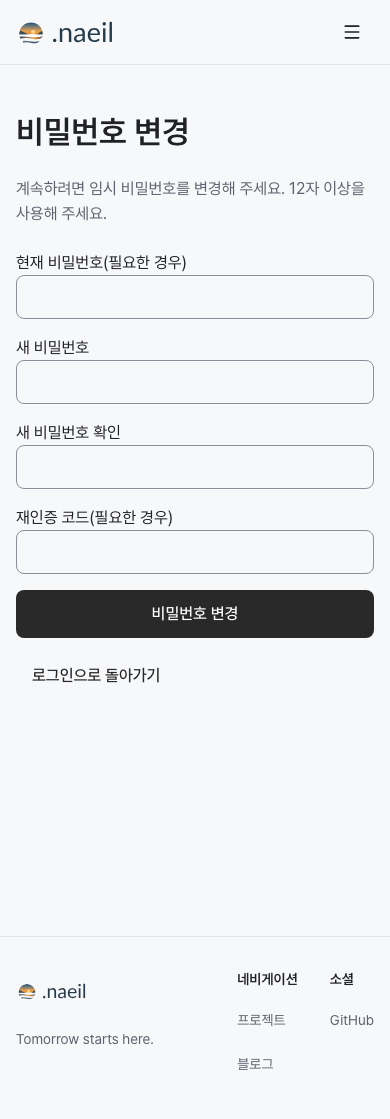
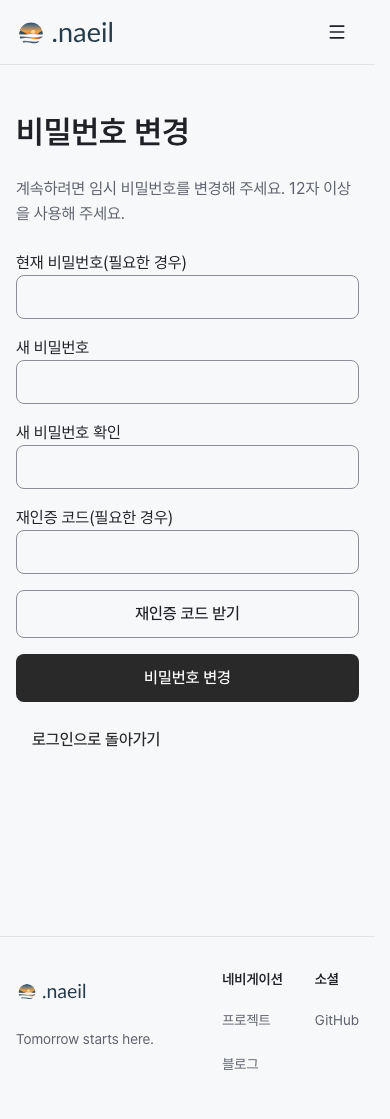
fix(site): harden credential recovery and accessible feedback

diff --git a/src/app/[locale]/login/credential-forms.tsx b/src/app/[locale]/login/credential-forms.tsx
@@ -1,15 +1,16 @@
 "use client";
-import { useRef, useState } from "react";
+import { useId, useRef, useState } from "react";
 import { useLocale, useTranslations } from "next-intl";
 import { Button } from "@/components/ui/button";
 import { Input } from "@/components/ui/input";
-import { clearLocalSession } from "./actions";
 import {
   passwordLogin,
   emailLogin,
   beginPasswordChange,
   submitPasswordChange,
   resumePasswordChange,
+  leavePasswordChange,
+  requestPasswordCode,
 } from "./credential-actions";
 
 export function CredentialForms({
@@ -22,11 +23,13 @@ export function CredentialForms({
   const t = useTranslations("auth"),
     locale = useLocale(),
     form = useRef<HTMLFormElement>(null),
-    lock = useRef(false);
+    lock = useRef(false),
+    statusId = useId();
   const [busy, setBusy] = useState(false),
-    [status, setStatus] = useState("");
+    [status, setStatus] = useState(""),
+    [email, setEmail] = useState("");
   async function run(
-    kind: "password" | "email" | "change" | "resume",
+    kind: "password" | "email" | "change" | "resume" | "code",
     data: FormData,
   ) {
     if (lock.current) return;
@@ -39,16 +42,17 @@ export function CredentialForms({
         const start = await beginPasswordChange();
         result =
           start.status === "ready" ? await submitPasswordChange(data) : start;
-      } else if (kind === "resume") result = await resumePasswordChange();
+      } else if (kind === "code") result = await requestPasswordCode();
+      else if (kind === "resume") result = await resumePasswordChange();
       else
         result =
           kind === "email" ? await emailLogin(data) : await passwordLogin(data);
-      form.current?.reset();
+      clearSensitive();
       if ("location" in result && typeof result.location === "string")
         window.location.assign(result.location);
       else setStatus(result.status === "ready" ? "" : result.status);
     } catch {
-      form.current?.reset();
+      clearSensitive();
       setStatus(change ? "retry" : "error");
     } finally {
       lock.current = false;
@@ -57,23 +61,37 @@ export function CredentialForms({
   }
   const messages: Record<string, string> = {
     error: "credentialError",
+    invalidEmail: "invalidEmail",
+    codeSent: "codeSent",
     expired: "tempExpired",
     reissued: "tempReissued",
     retry: "completionRetry",
     sent: "emailSent",
     rejected: "passwordRejected",
   };
+  const blocked = change && (status === "retry" || status === "reissued");
+  const invalid = ["error", "invalidEmail", "rejected"].includes(status);
+  function clearSensitive() {
+    form.current
+      ?.querySelectorAll<HTMLInputElement>(
+        'input[type="password"], input[name="nonce"]',
+      )
+      .forEach((input) => {
+        input.value = "";
+      });
+  }
   return (
     <div className="space-y-4">
-      {status && (
-        <p
-          role="status"
-          aria-live="polite"
-          className="rounded-md bg-surface-subtle p-4 text-sm"
-        >
-          {t(messages[status] || "credentialError")}
-        </p>
-      )}
+      <p
+        id={statusId}
+        role="status"
+        aria-live="polite"
+        className={
+          status ? "rounded-md bg-surface-subtle p-4 text-sm" : "sr-only"
+        }
+      >
+        {status ? t(messages[status] || "credentialError") : ""}
+      </p>
       <form
         ref={form}
         action={(data) => run(change ? "change" : "password", data)}
@@ -86,11 +104,15 @@ export function CredentialForms({
             <span>{t("emailId")}</span>
             <Input
               name="email"
+              value={email}
+              onChange={(event) => setEmail(event.target.value)}
               type="email"
               autoComplete="username"
               required
               maxLength={254}
-              disabled={busy}
+              aria-describedby={statusId}
+              aria-invalid={invalid || undefined}
+              disabled={busy || blocked}
             />
           </label>
         )}
@@ -101,7 +123,9 @@ export function CredentialForms({
               name="current_password"
               type="password"
               autoComplete="current-password"
-              disabled={busy}
+              aria-describedby={statusId}
+              aria-invalid={invalid || undefined}
+              disabled={busy || blocked}
               maxLength={1024}
             />
           </label>
@@ -115,7 +139,9 @@ export function CredentialForms({
             required
             minLength={change ? 12 : 1}
             maxLength={change ? 72 : 1024}
-            disabled={busy || status === "retry" || status === "reissued"}
+            disabled={busy || blocked}
+            aria-describedby={statusId}
+            aria-invalid={invalid || undefined}
           />
         </label>
         {change && (
@@ -129,7 +155,9 @@ export function CredentialForms({
                 required
                 minLength={12}
                 maxLength={72}
-                disabled={busy}
+                aria-describedby={statusId}
+                aria-invalid={invalid || undefined}
+                disabled={busy || blocked}
               />
             </label>
             <label className="block space-y-2">
@@ -138,16 +166,28 @@ export function CredentialForms({
                 name="nonce"
                 autoComplete="one-time-code"
                 maxLength={128}
-                disabled={busy}
+                aria-describedby={statusId}
+                aria-invalid={invalid || undefined}
+                disabled={busy || blocked}
               />
             </label>
+            <Button
+              type="button"
+              variant="outline"
+              className="w-full"
+              size="lg"
+              disabled={busy || blocked}
+              onClick={() => void run("code", new FormData())}
+            >
+              {t("requestCode")}
+            </Button>
           </>
         )}
         <Button
           type="submit"
           size="lg"
           className="w-full whitespace-normal"
-          disabled={busy || status === "retry" || status === "reissued"}
+          disabled={busy || blocked}
           aria-busy={busy}
         >
           {t(change ? "changePassword" : "passwordSignIn")}
@@ -160,6 +200,12 @@ export function CredentialForms({
             className="w-full whitespace-normal"
             disabled={busy}
             onClick={() => {
+              if (
+                !form.current
+                  ?.querySelector<HTMLInputElement>('input[name="email"]')
+                  ?.reportValidity()
+              )
+                return;
               const data = new FormData();
               data.set(
                 "email",
@@ -186,9 +232,20 @@ export function CredentialForms({
       {change && (
         <Button
           variant="link"
+          disabled={busy}
           onClick={async () => {
-            await clearLocalSession();
-            window.location.assign(`/${locale}/login`);
+            if (lock.current) return;
+            lock.current = true;
+            setBusy(true);
+            clearSensitive();
+            try {
+              await leavePasswordChange();
+              window.location.assign(`/${locale}/login`);
+            } catch {
+              lock.current = false;
+              setBusy(false);
+              setStatus("error");
+            }
           }}
         >
           {t("backToLogin")}

diff --git a/src/lib/auth/__tests__/password-pages.test.ts b/src/lib/auth/__tests__/password-pages.test.ts
@@ -1,0 +1,64 @@
+import { beforeEach, expect, it, vi } from "vitest";
+import { createElement } from "react";
+import { renderToStaticMarkup } from "react-dom/server";
+const state = vi.hoisted(() => ({
+  user: null as null | { id: string; app_metadata: Record<string, unknown> },
+}));
+vi.mock("@/lib/supabase/server", () => ({
+  createClient: async () => ({
+    auth: {
+      getUser: async () => ({ data: { user: state.user }, error: null }),
+    },
+  }),
+}));
+vi.mock("next-intl/server", () => ({
+  getTranslations: async () => (key: string) => key,
+}));
+vi.mock("next/navigation", () => ({
+  redirect: (path: string) => {
+    throw new Error(`redirect:${path}`);
+  },
+}));
+vi.mock("@/app/[locale]/login/credential-forms", () => ({
+  CredentialForms: () => createElement("form", { "data-change": "true" }),
+}));
+vi.mock("@/app/[locale]/login/oauth-buttons", () => ({
+  OAuthButtons: () => null,
+}));
+vi.mock("@/components/logo", () => ({ Logo: () => null }));
+import LoginPage from "@/app/[locale]/login/page";
+import PasswordChangePage from "@/app/[locale]/login/change-password/page";
+beforeEach(() => {
+  state.user = {
+    id: "user",
+    app_metadata: {
+      console_temp: {
+        must_change: true,
+        locked: false,
+        generation: 1,
+        issued_at: new Date().toISOString(),
+        operation_id: "a2000000-0000-0000-0000-000000000001",
+      },
+    },
+  };
+});
+it("login page blocks next even without proxy execution", async () => {
+  await expect(
+    LoginPage({
+      params: Promise.resolve({ locale: "ko" }),
+      searchParams: Promise.resolve({ next: "https://jev.naeil.dev/" }),
+    }),
+  ).rejects.toThrow("redirect:/ko/login/change-password");
+});
+it.each([false, true])(
+  "change page renders an input form only before expiry (%s)",
+  async (expired) => {
+    if (expired)
+      (
+        state.user!.app_metadata.console_temp as Record<string, unknown>
+      ).issued_at = new Date(Date.now() - 8 * 86400_000).toISOString();
+    const html = renderToStaticMarkup(await PasswordChangePage());
+    expect(html.includes('data-change="true"')).toBe(!expired);
+    expect(html.includes("tempExpired")).toBe(expired);
+  },
+);

diff --git a/src/proxy.ts b/src/proxy.ts
@@ -1,6 +1,7 @@
 import { type NextRequest, NextResponse } from "next/server";
 import createIntlMiddleware from "next-intl/middleware";
 import { requiresPasswordChange, passwordChangePath } from "./lib/auth/password-policy";
+import { authLocale } from "./lib/auth/return-location";
 import { routing } from "./i18n/routing";
 import { updateSession } from "./lib/supabase/middleware";
 import { isProtectedReportRoute } from "./lib/auth/routes";
@@ -39,7 +40,7 @@ export default async function proxy(request: NextRequest) {
   // 2. Capture URL info BEFORE intl middleware (which may mutate request.nextUrl)
   const { pathname } = request.nextUrl;
 
-  const language = pathname.match(/^\/(en|ko|ja)(?:\/|$)/)?.[1] || "en";
+  const language = pathname.match(/^\/(en|ko|ja)(?:\/|$)/)?.[1] || authLocale(request.cookies.get("NEXT_LOCALE")?.value);
   if (requiresPasswordChange(user) && !/^\/(?:(?:en|ko|ja)\/)?login\/change-password$/.test(pathname)) {
     const response = NextResponse.redirect(new URL(passwordChangePath(language), request.url), 303);
     supabaseResponse.cookies.getAll().forEach(cookie => response.cookies.set(cookie));

diff --git a/src/lib/auth/__tests__/password-form.test.ts b/src/lib/auth/__tests__/password-form.test.ts
@@ -1,0 +1,30 @@
+import { expect, it, vi } from "vitest";
+import { createElement } from "react";
+import { renderToStaticMarkup } from "react-dom/server";
+vi.mock("next-intl", () => ({
+  useLocale: () => "ko",
+  useTranslations: () => (key: string) => key,
+}));
+vi.mock("@/app/[locale]/login/credential-actions", () => ({
+  passwordLogin: vi.fn(),
+  emailLogin: vi.fn(),
+  beginPasswordChange: vi.fn(),
+  submitPasswordChange: vi.fn(),
+  resumePasswordChange: vi.fn(),
+  leavePasswordChange: vi.fn(),
+  requestPasswordCode: vi.fn(),
+}));
+import { CredentialForms } from "@/app/[locale]/login/credential-forms";
+it.each([false, true])(
+  "keeps a persistent status region linked to the inputs (change=%s)",
+  (change) => {
+    const html = renderToStaticMarkup(
+      createElement(CredentialForms, { change }),
+    );
+    const id = html.match(/<p id="([^"]+)" role="status"/)?.[1];
+    expect(id).toBeTruthy();
+    expect(html).toContain('aria-live="polite"');
+    expect(html).toContain(`aria-describedby="${id}"`);
+    if (change) expect(html).toContain("requestCode");
+  },
+);

diff --git a/src/lib/auth/__tests__/password-route.test.ts b/src/lib/auth/__tests__/password-route.test.ts
@@ -67,6 +67,16 @@ describe("minimal site must-change gates", () => {
     expect(r.cookies.has("fixture-refresh")).toBe(true);
     expect(state.intl).not.toHaveBeenCalled();
   });
+  it("keeps the locale cookie on locale-less protected navigation", async () => {
+    const r = await proxy(
+      new NextRequest("https://naeil.dev/projects", {
+        headers: { cookie: "NEXT_LOCALE=ja" },
+      }),
+    );
+    expect(r.headers.get("location")).toBe(
+      "https://naeil.dev/ja/login/change-password",
+    );
+  });
   it("keeps the change page reachable and preserves normal sessions", async () => {
     expect(
       (

diff --git a/docs/design/site-login-2026-11-02/README.md b/docs/design/site-login-2026-11-02/README.md
@@ -1,15 +1,18 @@
 # S2 site login verification
 
-Site-only composition on UI main ce56dd7. Shared components/tokens and S1-owned invite/session helpers are unchanged. No deployment or publication performed.
+Site-only composition on UI main ce56dd7. Shared components/tokens and S1-owned invite/session helpers are unchanged. All three stacked PRs remain drafts and unmerged.
 
-- Focused auth/login Vitest: 545 passed, 5 existing opt-in production-invite tests skipped. Includes existing S1 invite/proxy/session tests. TypeScript, changed-file ESLint and production webpack build passed.
-- Independent source review found retry-binding/concurrent-start bugs; regression tests failed first (same-generation re-login; ambiguous HTTP408/429), then passed after preserving operation bindings, deriving stable admission UUIDs and narrowing confirmed rejection codes. A pinned-GoTrue password-grant 400/user_banned regression also passed. Final review recovery findings (OAuth/OTP reissue binding and unstarted initialization) were reproduced, fixed and covered by action regressions; no further independent review of those last fixes is claimed.
-- Production Next HTTP seam: password login → must-change page → failed completion → completion-only retry. Exactly one user-password PUT and one admin-marker PUT. A separate initialization-outage recovery returned to the form without any password write, then completed with one PUT. This is synthetic Auth transport, not a real GoTrue/SMTP/IdP test.
-- Rendered login/change pages: ko/en/ja × light/dark × 390-touch/1440-desktop, 24 states; scoped axe WCAG2/2.1 AA found zero violations, no horizontal overflow, keyboard field order passed, controls ≥44px touch/40px desktop, Pretendard loaded. Three representative captures below were visually inspected. No baseline pixel comparison or general accessibility certification is claimed.
-- Client module-graph regression and all 47 built client JS chunks exclude the private canary. App logs exclude fixture password/JWT/private canaries. Real credentials were not used.
+- Full repo Vitest: **622 passed / 5 existing opt-in production-invite tests skipped** (39 files). Includes S1 invite/proxy/session tests and the client module graph boundary test. TypeScript and production webpack build passed. Full `eslint .` exited0: zero errors, three pre-existing warnings in logo-study verify_browser.mjs, rollout evidence verify-public.mjs and auth/return rejected route; those files are unchanged.
+- Review fixes: current-user/session operation binding; Back clears it; weak-password → Back → re-sign-in completes; switching temporary users on one browser completes. Unknown outcomes retain the same-session admission and only retry completion. GoTrue's real `current_password_invalid` is a definite rejection. HKDF separates cookie and operation keys; apikey matches the existing invite transport pattern.
+- GoTrue v2.197 wraps SQL008 token-issuance trigger failures as generic unexpected_failure. Invalid credentials, user_banned and indistinguishable post-password failures all get the same neutral sign-in message. **No email lookup, admin filter, sweep RPC or BigInt cursor trick remains.** Explicit expiry appears only on the authenticated change page with verified metadata.
+- Production Next with synthetic Auth HTTP seam: password login → change page → failed completion → completion-only retry performs one password PUT and one admin-marker PUT. Initial Auth outage recovers before any password write. Reauthentication-code request, retained email/error association, disabled pending inputs and same-browser PKCE hint are also exercised. This is not a real GoTrue/SMTP/IdP test.
+- Rendered login/change pages: ko/en/ja × light/dark × 390-touch/1440-desktop, 24 states; scoped axe WCAG2/2.1 AA zero violations, no horizontal overflow, keyboard field order, ≥44px touch/40px desktop controls and loaded Pretendard. Representative captures below were visually inspected. No baseline pixel comparison or general accessibility certification is claimed.
+- Client module graph and all built client JS chunks exclude the private canary. App logs exclude fixture password/JWT/private canaries. Real credentials were not used. Owned Next/Auth processes stop after each browser run.
 
-Run focused checks: `pnpm exec vitest run src/lib/auth 'src/app/[locale]/login' --maxWorkers=1`, `pnpm exec tsc --noEmit`, changed-file `pnpm exec eslint`, and `pnpm exec next build --webpack` with fictional public Supabase settings. Wait for other pytest/Vitest processes before heavy checks. Build/render tests use isolated loopback Next/Auth seams; both owned processes are stopped afterward.
+Mutation regressions: nine mutations each failed on assertions, then original bytes were restored: operation_id check; plan generation; final fresh /user; fresh must_change; fresh locked; cookie expiry; claims.sub; login-page gate; change-page expiry. The expiry-list state-filter mutation is eliminated by deleting that lookup path, rather than retaining unnecessary account queries.
 
-Hosted gates remain: GoTrue SQL008/audit/trigger contract, actual password/reauthentication policy, Google/GitHub and existing-user email delivery. Shared-package behavior is unchanged, so Storybook/packed-consumer checks are not claimed. Human merge remains separate and redeploys the site.
+Reproduce: `pnpm exec vitest run --maxWorkers=1`, `pnpm exec tsc --noEmit`, `pnpm exec eslint .`, `pnpm exec next build --webpack` with fictional public Supabase settings. The owned pgrep guard waits for other pytest/Vitest runs before heavy checks. Browser fixtures use isolated loopback Next/Auth seams.
+
+[Required production gates](../../superpowers/specs/2026-11-02-site-password-login-ops.md): Vercel Firewall rate limiting must be owner-configured and tested before activation; hosted forwarded-IP support is unverified. Email responses share a 1.5-second floor, not a claim of constant-time slow SMTP. Real SQL008/Auth audit, password/reauthentication policy, OAuth and mail delivery remain separate hosted gates. No package API change, publication or main merge.
 
 [한국어 로그인·모바일](login-ko-light-390.png) · [한국어 강제 변경·모바일](change-ko-light-390.png) · [日本語ログイン・desktop dark](login-ja-dark-1440.png)

diff --git a/docs/design/frontend-sources.md b/docs/design/frontend-sources.md
@@ -320,4 +320,4 @@ Applied frontend-reference-workflow installed2026-10-05.1 plus project2026-10-02
 - Authority and reuse: DESIGN.md, existing login/OAuth composition, canonical Input/Button/PageTitle/Logo, Pretendard and the 480px short-form token inside the unchanged application frame. Site-only forms/gates; no external visual/component gap or copied third-party code.
 - Actual tools: repository frontend-reference-workflow revision2026-10-02.1; Vitest/TypeScript/ESLint/Next webpack, Playwright Chromium, scoped axe and source review. No Refero/21st/Component Gallery lookup, image generation, live IdP/SMTP or package publication/consumption test was performed.
[1 lines of base64/hex data omitted]
-- [Executed checks, limitations and inspected screenshots](site-login-2026-11-02/README.md). Synthetic Auth seams establish site behavior only; hosted gates remain explicit.
+- [Executed checks, limitations and inspected screenshots](site-login-2026-11-02/README.md). Opus follow-up includes full Vitest, nine killed mutants, neutral no-lookup sign-in failures, persistent error status/retained email, code request and locale-cookie recovery. Synthetic Auth seams establish site behavior only; hosted gates remain explicit.
